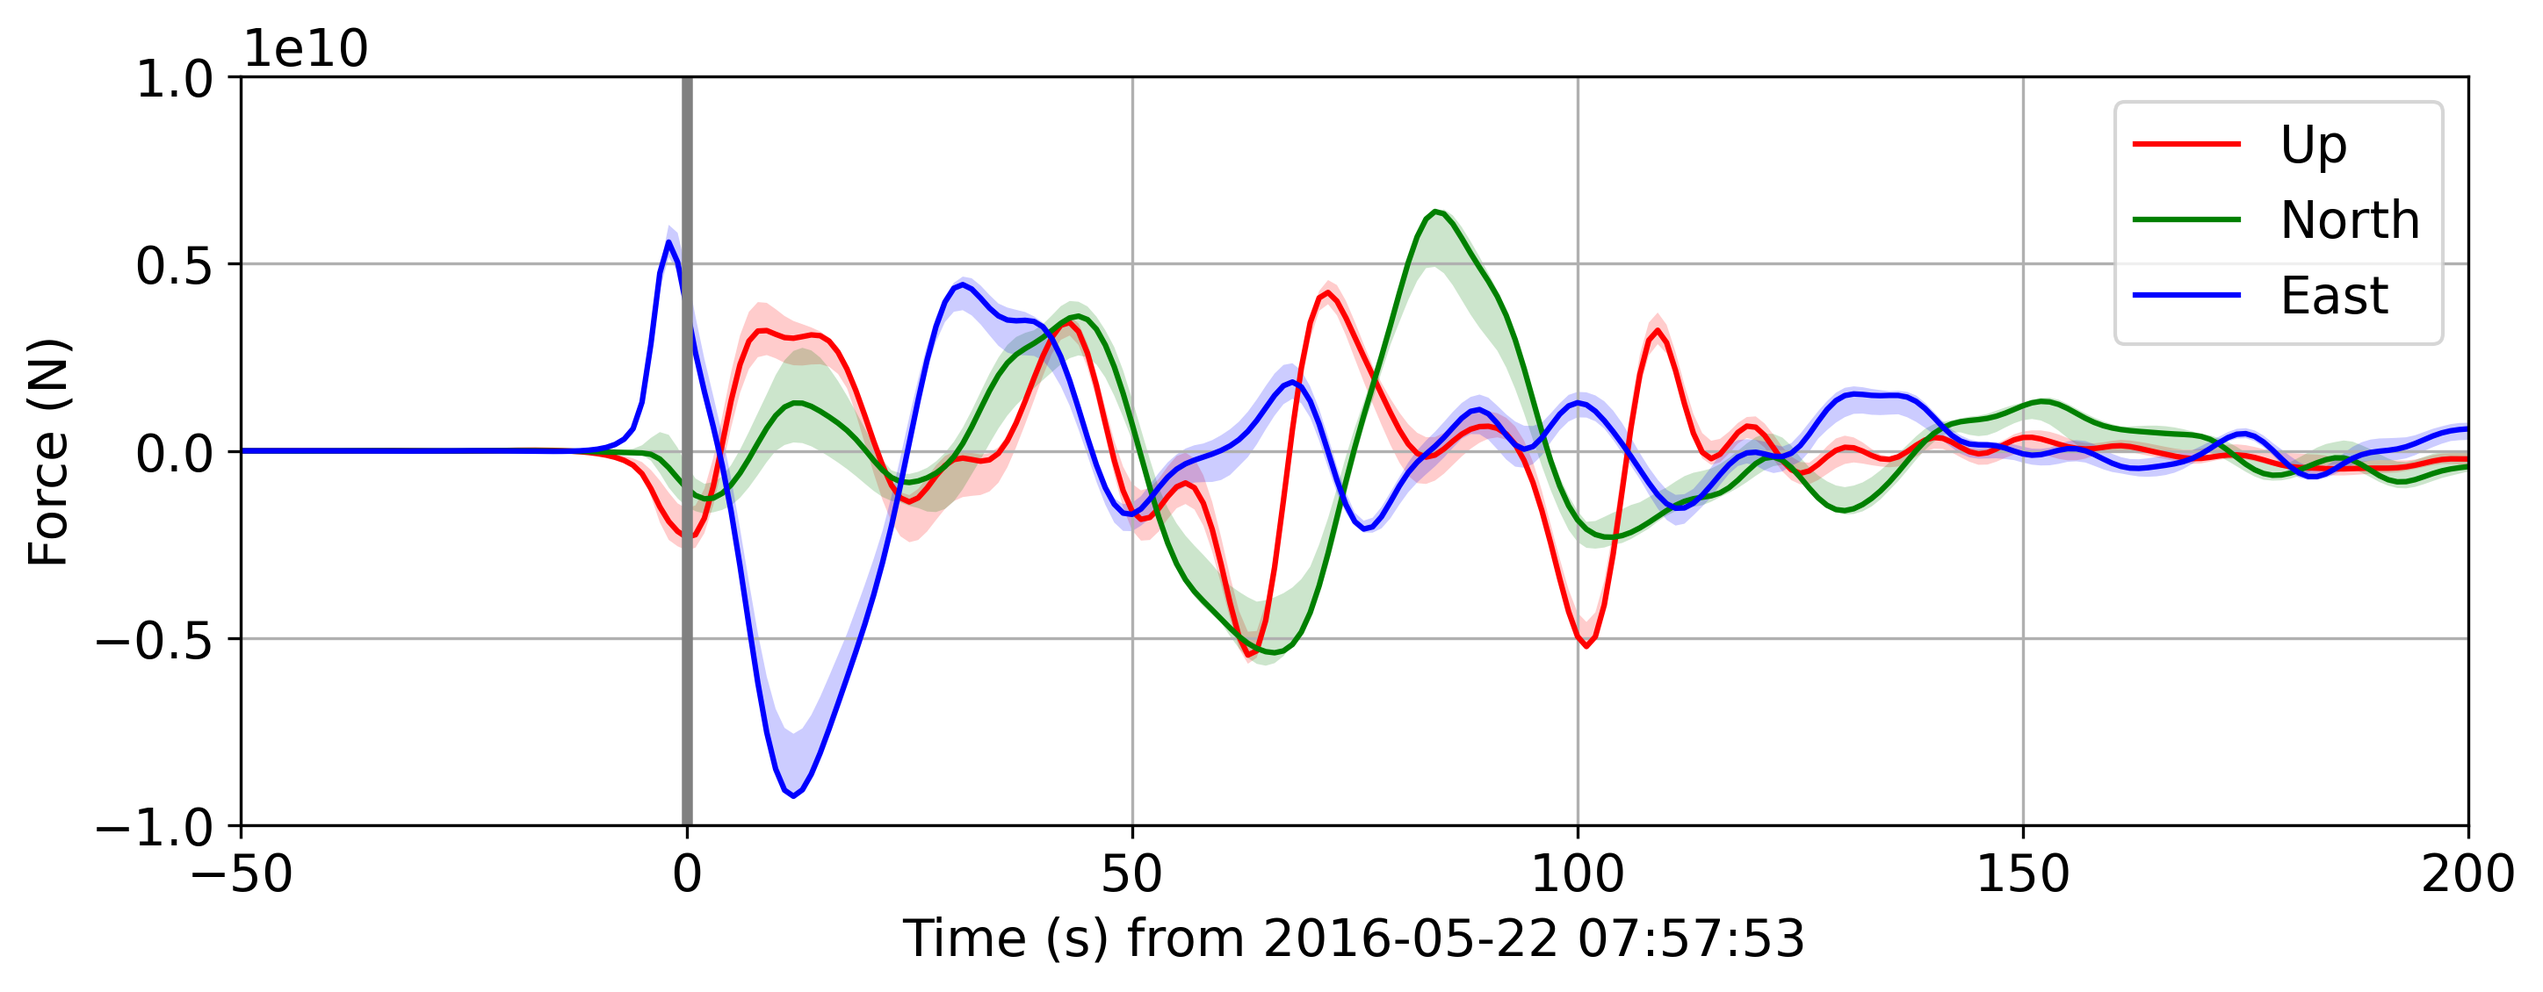
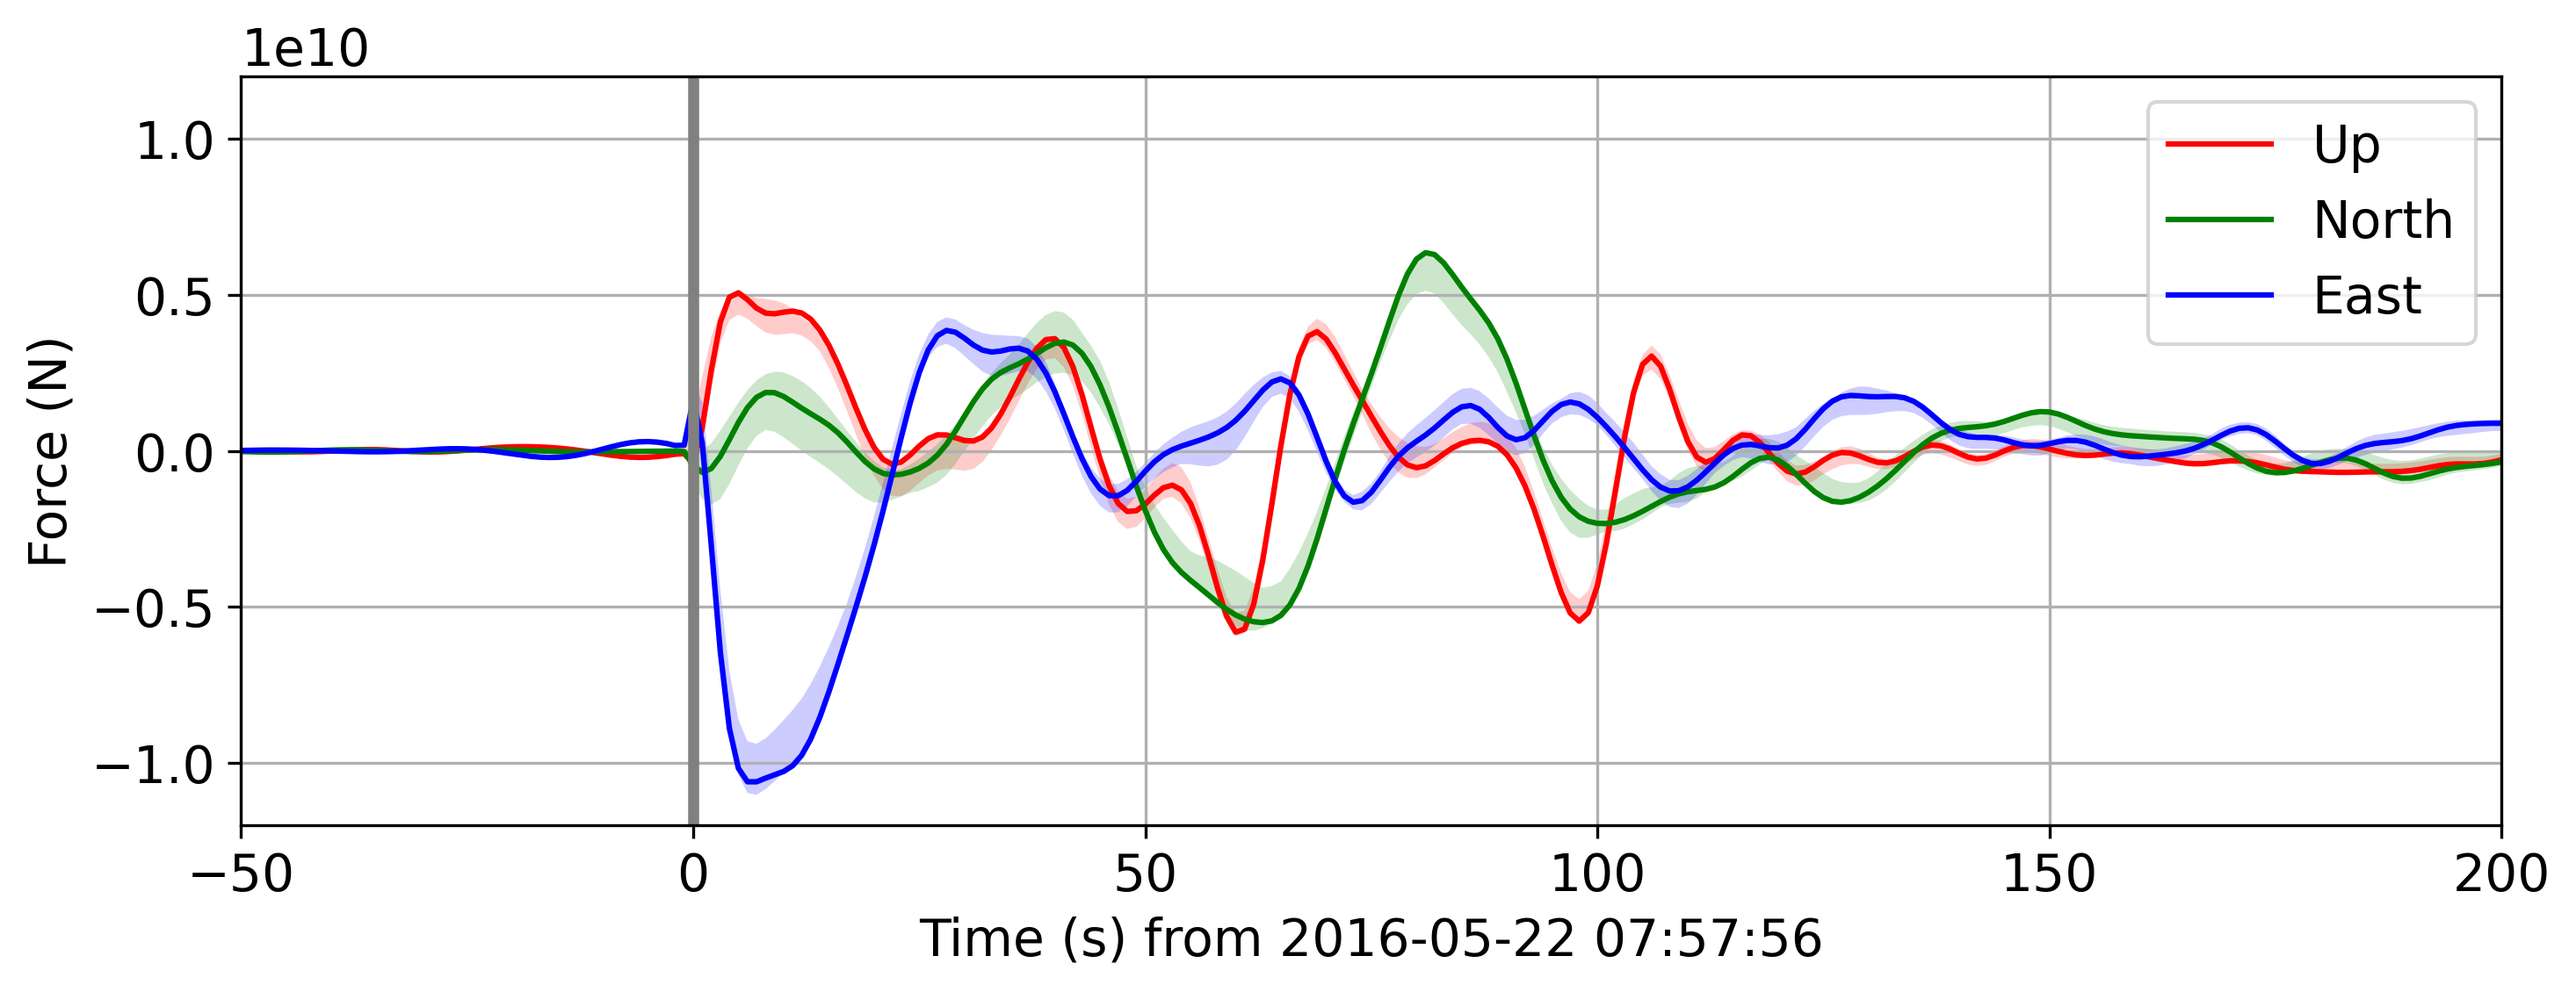
Update README example force-time function

diff --git a/README.md b/README.md
@@ -9,6 +9,20 @@ waveforms to estimate a time series vector of single forces that represents the
 equivalent forces exerted on the Earth by the landslide (see example output figure
 below).
 
+<!--
+The force-time function is created from notebooks/example_full.ipynb:
+
+import matplotlib.pyplot as plt
+plt.rcParams.update({'font.size': 14})
+fig = force.plot_forces(xlim=(-50, 200));
+fig.axes[0].set_ylim(-1.2e10, 1.2e10)
+fig.savefig(
+    '../example_force_history_NEW.png',
+    bbox_inches='tight',
+    transparent=True,
+    dpi=300,
+)
+-->
 ![Example force-time function output by lsforce](example_force_history.png)
 
 Installation
